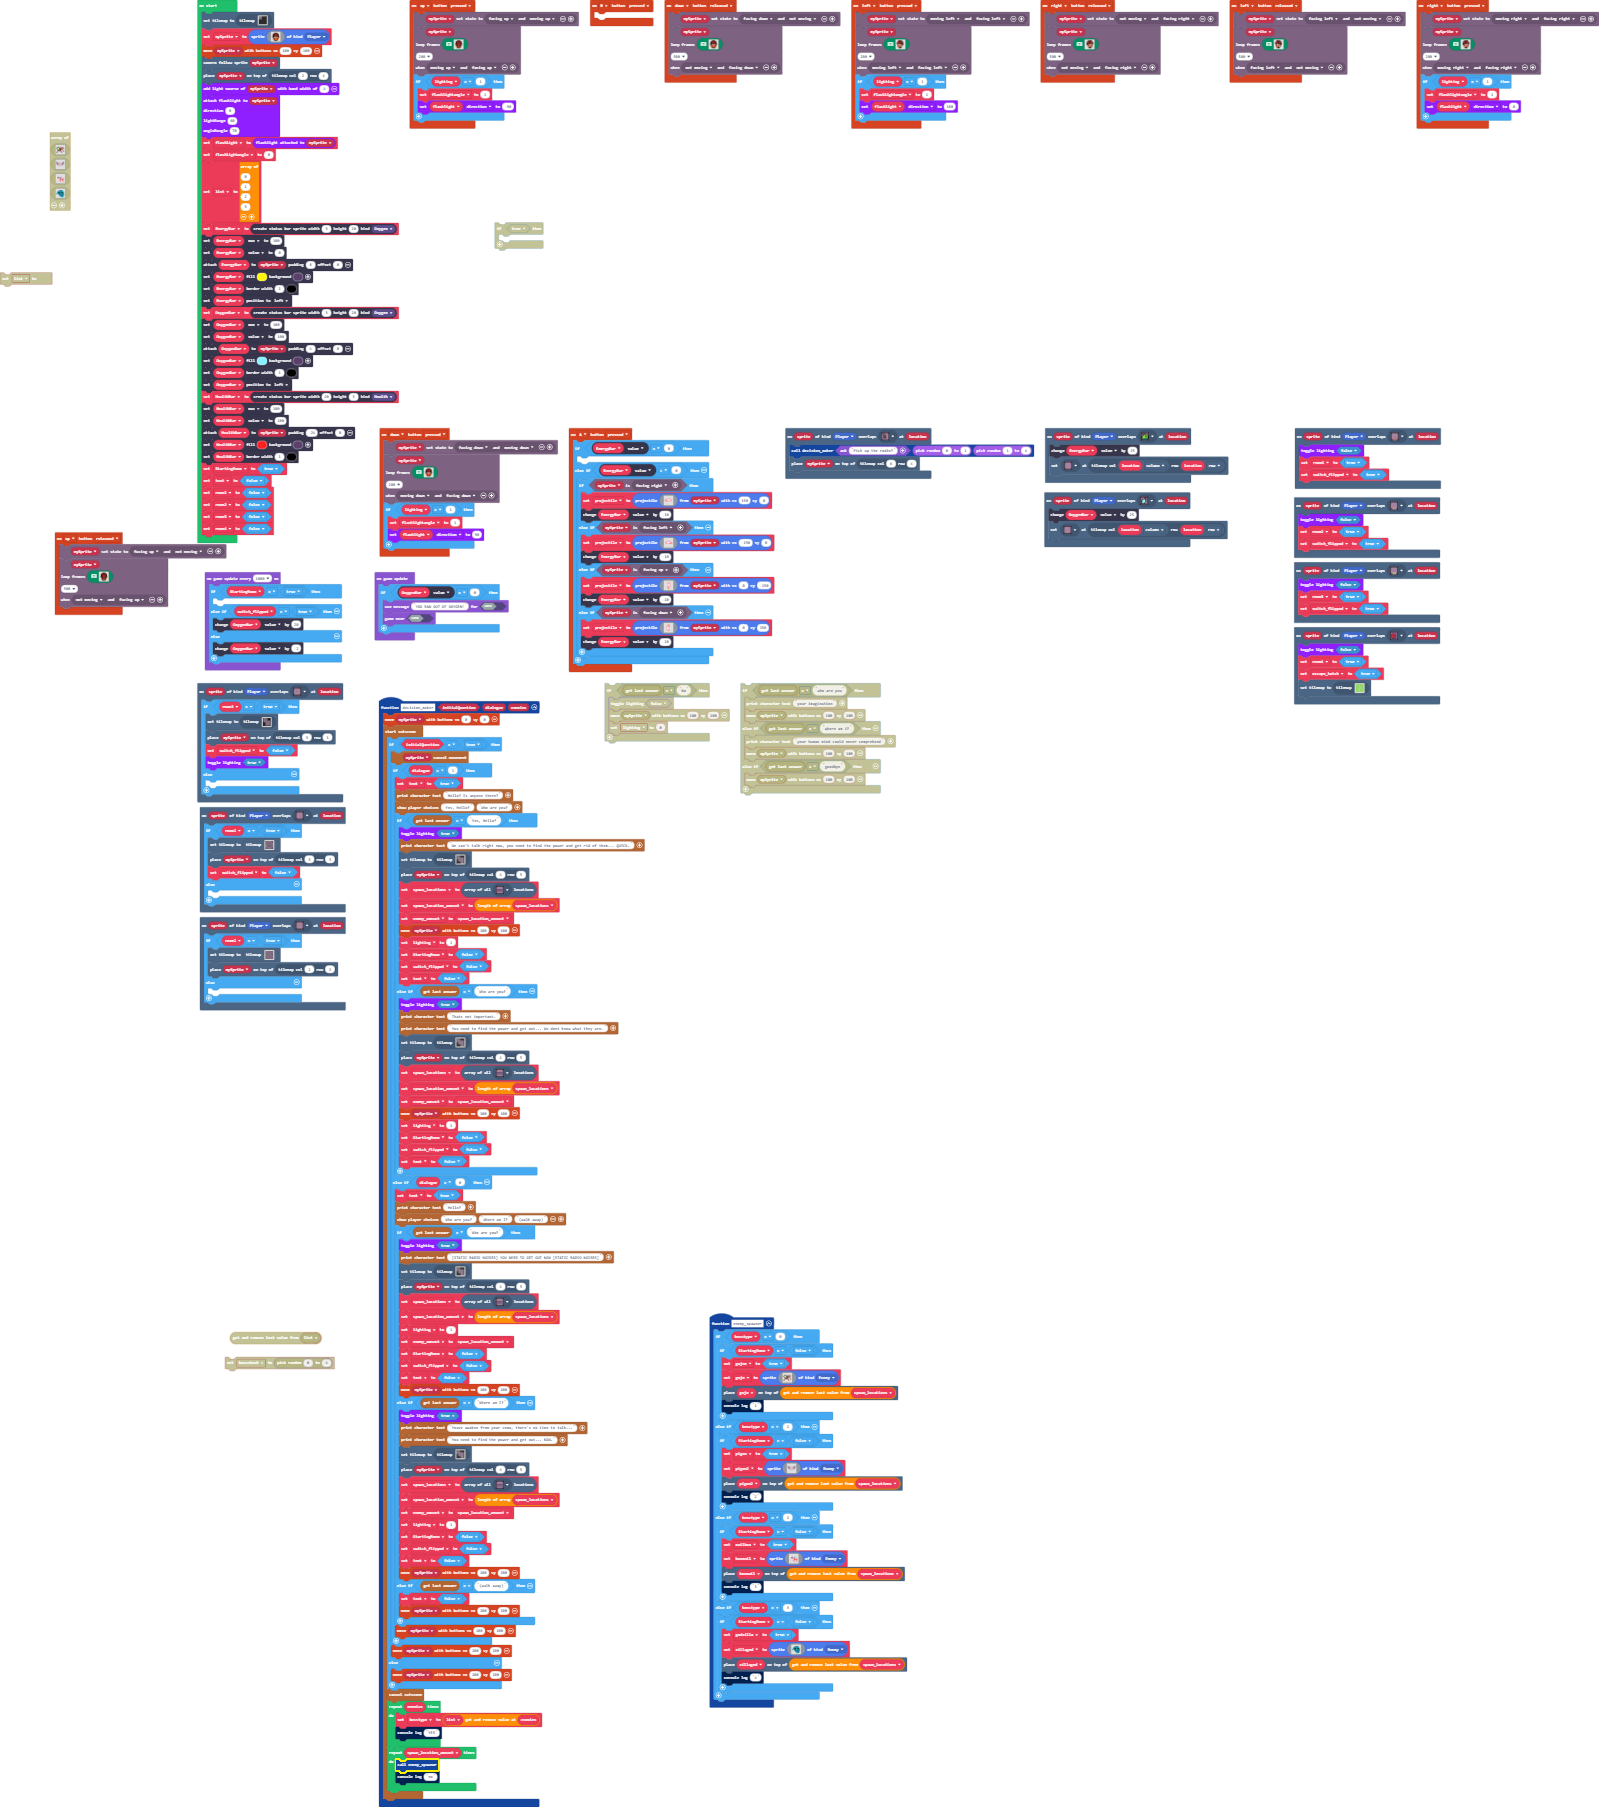
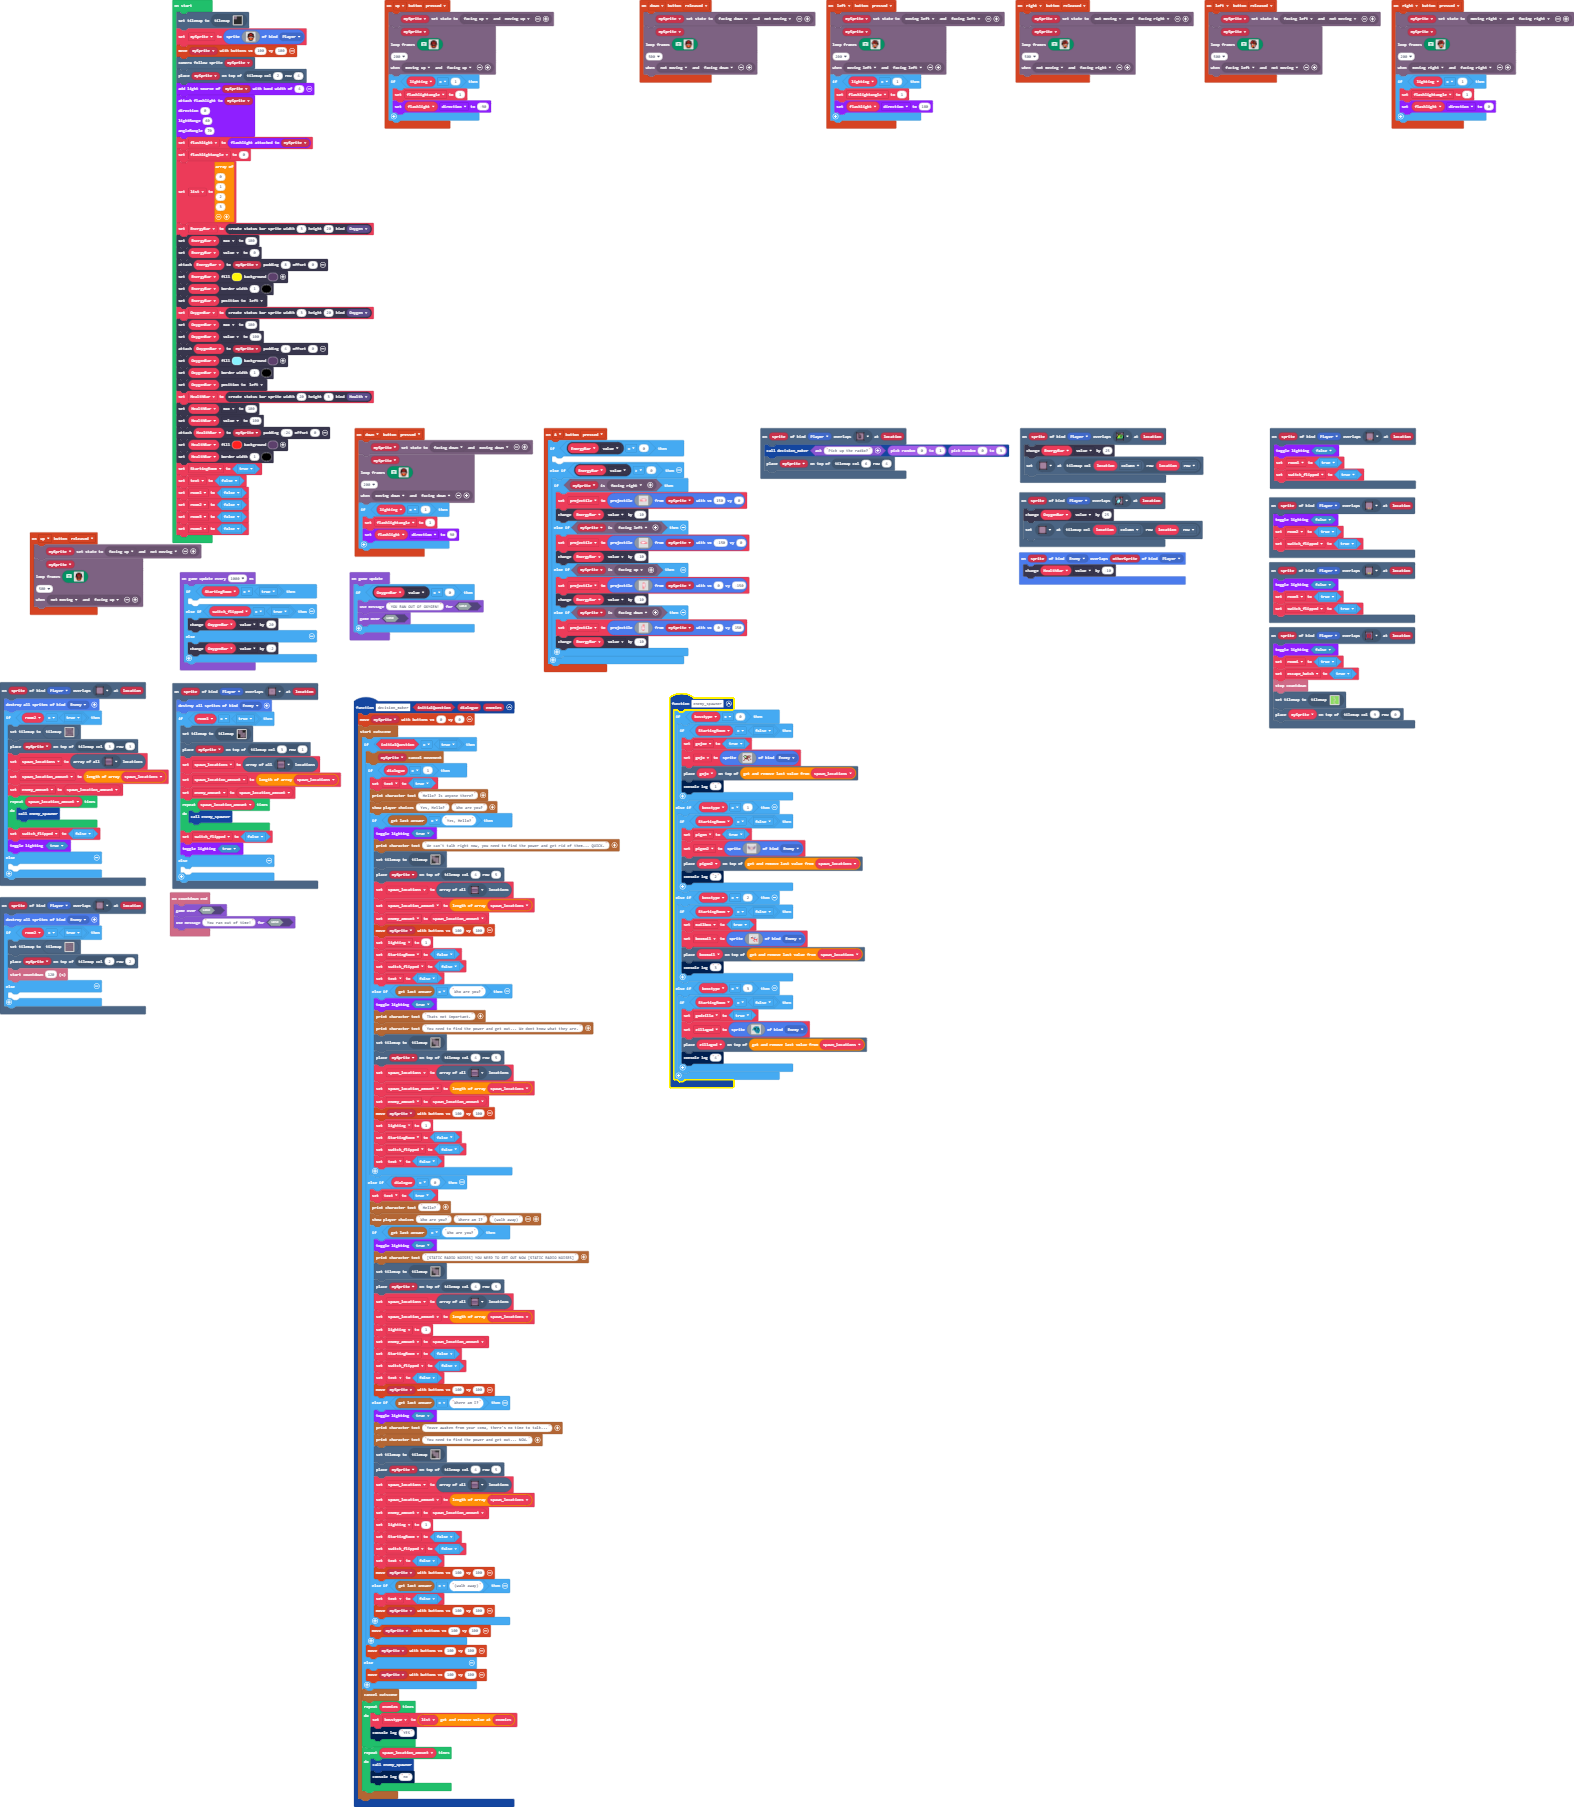
added more enemy spawns

diff --git a/main.ts b/main.ts
@@ -90,22 +90,29 @@ controller.up.onEvent(ControllerButtonEvent.Pressed, function () {
         flashlight.direction = -90
     }
 })
-controller.B.onEvent(ControllerButtonEvent.Pressed, function () {
-	
-})
 scene.onOverlapTile(SpriteKind.Player, assets.tile`myTile22`, function (sprite, location) {
+    sprites.destroyAllSpritesOfKind(SpriteKind.Enemy)
     if (room2 == true) {
         tiles.setCurrentTilemap(tilemap`level13`)
         tiles.placeOnTile(mySprite, tiles.getTileLocation(3, 3))
+        spawn_locations = tiles.getTilesByType(assets.tile`myTile10`)
+        spawn_location_amount = spawn_locations.length
+        enemy_amount = spawn_location_amount
+        for (let index = 0; index < spawn_location_amount; index++) {
+            enemy_spawner()
+        }
         switch_flipped = false
+        multilights.toggleLighting(true)
     } else {
     	
     }
 })
 scene.onOverlapTile(SpriteKind.Player, assets.tile`myTile24`, function (sprite, location) {
+    sprites.destroyAllSpritesOfKind(SpriteKind.Enemy)
     if (room2 == true) {
         tiles.setCurrentTilemap(tilemap`level16`)
         tiles.placeOnTile(mySprite, tiles.getTileLocation(2, 2))
+        info.startCountdown(120)
     } else {
     	
     }
@@ -438,7 +445,9 @@ scene.onOverlapTile(SpriteKind.Player, assets.tile`myTile25`, function (sprite, 
     multilights.toggleLighting(false)
     room4 = true
     escape_hatch = true
+    info.stopCountdown()
     tiles.setCurrentTilemap(tilemap`level20`)
+    tiles.placeOnTile(mySprite, tiles.getTileLocation(9, 0))
 })
 controller.left.onEvent(ControllerButtonEvent.Pressed, function () {
     characterAnimations.setCharacterState(mySprite, characterAnimations.rule(Predicate.MovingLeft, Predicate.FacingLeft))
@@ -522,9 +531,16 @@ controller.left.onEvent(ControllerButtonEvent.Pressed, function () {
     }
 })
 scene.onOverlapTile(SpriteKind.Player, assets.tile`myTile9`, function (sprite, location) {
+    sprites.destroyAllSpritesOfKind(SpriteKind.Enemy)
     if (room1 == true) {
         tiles.setCurrentTilemap(tilemap`level7`)
         tiles.placeOnTile(mySprite, tiles.getTileLocation(3, 1))
+        spawn_locations = tiles.getTilesByType(assets.tile`myTile10`)
+        spawn_location_amount = spawn_locations.length
+        enemy_amount = spawn_location_amount
+        for (let index = 0; index < spawn_location_amount; index++) {
+            enemy_spawner()
+        }
         switch_flipped = false
         multilights.toggleLighting(true)
     } else {
@@ -617,6 +633,10 @@ controller.left.onEvent(ControllerButtonEvent.Released, function () {
     characterAnimations.rule(Predicate.FacingLeft, Predicate.NotMoving)
     )
 })
+info.onCountdownEnd(function () {
+    game.gameOver(false)
+    game.setGameOverMessage(false, "You ran out of time!")
+})
 scene.onOverlapTile(SpriteKind.Player, assets.tile`myTile21`, function (sprite, location) {
     OxygenBar.value += 25
     tiles.setTileAt(tiles.getTileLocation(location.column, location.row), assets.tile`myTile8`)
@@ -703,8 +723,11 @@ controller.right.onEvent(ControllerButtonEvent.Pressed, function () {
     }
 })
 scene.onOverlapTile(SpriteKind.Player, assets.tile`tile5`, function (sprite, location) {
-    decision_maker(game.ask("Pick up the radio?"), randint(0, 1), randint(1, 4))
+    decision_maker(game.ask("Pick up the radio?"), randint(0, 1), randint(0, 3))
     tiles.placeOnTile(mySprite, tiles.getTileLocation(6, 4))
+})
+sprites.onOverlap(SpriteKind.Enemy, SpriteKind.Player, function (sprite, otherSprite) {
+    HealthBar.value += -10
 })
 controller.up.onEvent(ControllerButtonEvent.Released, function () {
     characterAnimations.setCharacterState(mySprite, characterAnimations.rule(Predicate.FacingUp, Predicate.NotMoving))
@@ -850,11 +873,11 @@ let pigon = false
 let gojo: Sprite = null
 let gojoe = false
 let bosstype = 0
+let projectile: Sprite = null
+let switch_flipped = false
 let enemy_amount = 0
 let spawn_location_amount = 0
 let spawn_locations: tiles.Location[] = []
-let projectile: Sprite = null
-let switch_flipped = false
 let lighting = 0
 let room4 = false
 let room3 = false
@@ -862,6 +885,7 @@ let room2 = false
 let room1 = false
 let text = false
 let StartingRoom = false
+let HealthBar: StatusBarSprite = null
 let OxygenBar: StatusBarSprite = null
 let EnergyBar: StatusBarSprite = null
 let list: number[] = []
@@ -919,7 +943,7 @@ OxygenBar.attachToSprite(mySprite, 4, 0)
 OxygenBar.setColor(9, 12)
 OxygenBar.setBarBorder(1, 15)
 OxygenBar.positionDirection(CollisionDirection.Left)
-let HealthBar = statusbars.create(20, 3, StatusBarKind.Health)
+HealthBar = statusbars.create(20, 3, StatusBarKind.Health)
 HealthBar.max = 100
 HealthBar.value = 100
 HealthBar.attachToSprite(mySprite, -24, 0)
